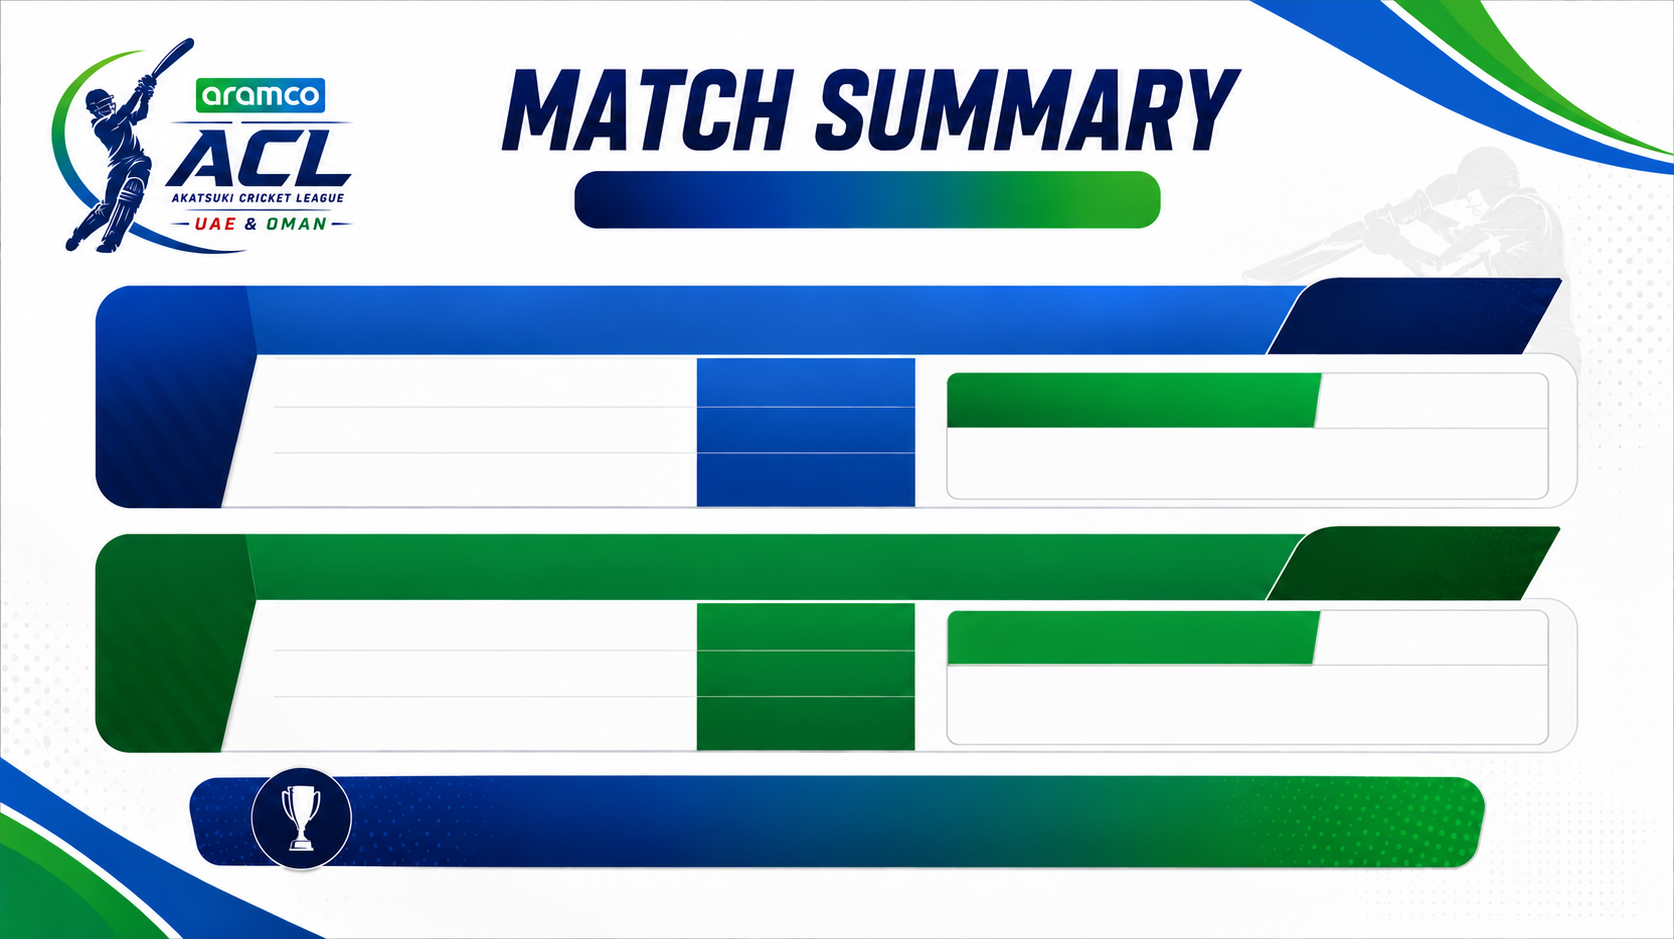
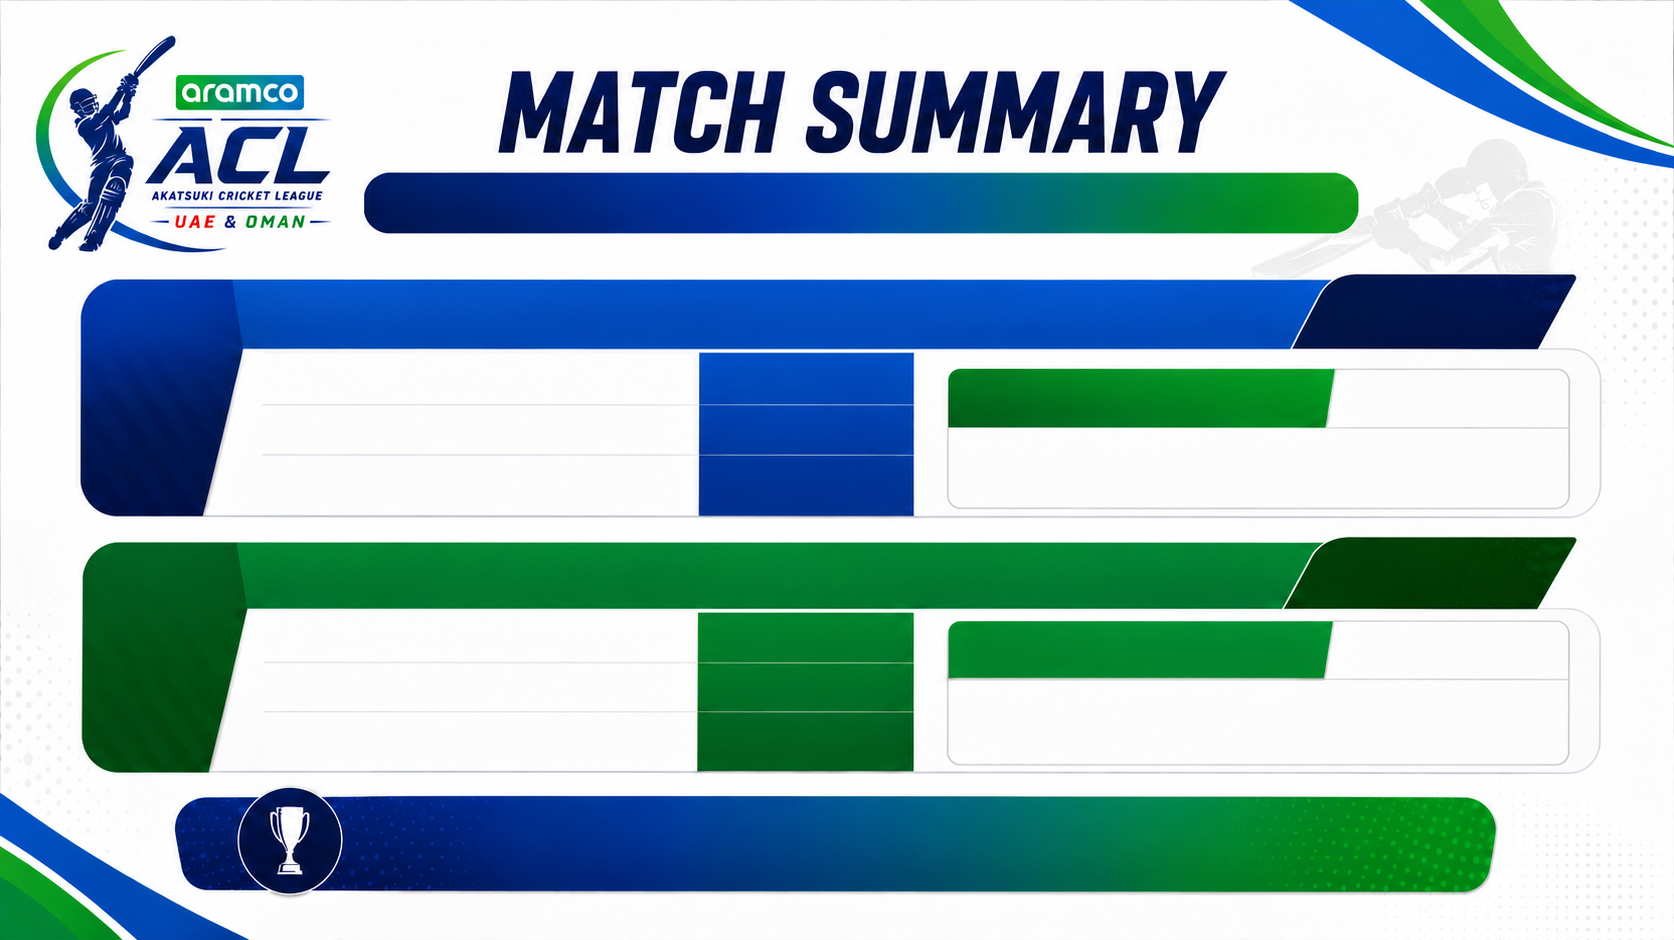
test

diff --git a/bot.py b/bot.py
@@ -2024,10 +2024,11 @@ def generate_acl_match_summary(data: dict) -> io.BytesIO:
         text(x + 6, y, "IP", f, "lm", WHITE)
         return bw_px + 8
 
+    LOGO_DY = -12   # nudge both team logos higher in their caps
     for key in ("t1", "t2"):
         t = data.get(key) or {}; cfg = rows[key]
         col = _hex(t.get("color")); bowl_col = _hex((data.get(cfg["other"]) or {}).get("color"))
-        paste_logo(t.get("logo_emoji"), 172, cfg["logo_cy"], 120, col)
+        paste_logo(t.get("logo_emoji"), 172, cfg["logo_cy"] + LOGO_DY, 120, col)
 
         nm = (t.get("name") or "")[:16]
         text(NAME_X, cfg["hy"], nm, f_name, "lm", WHITE)